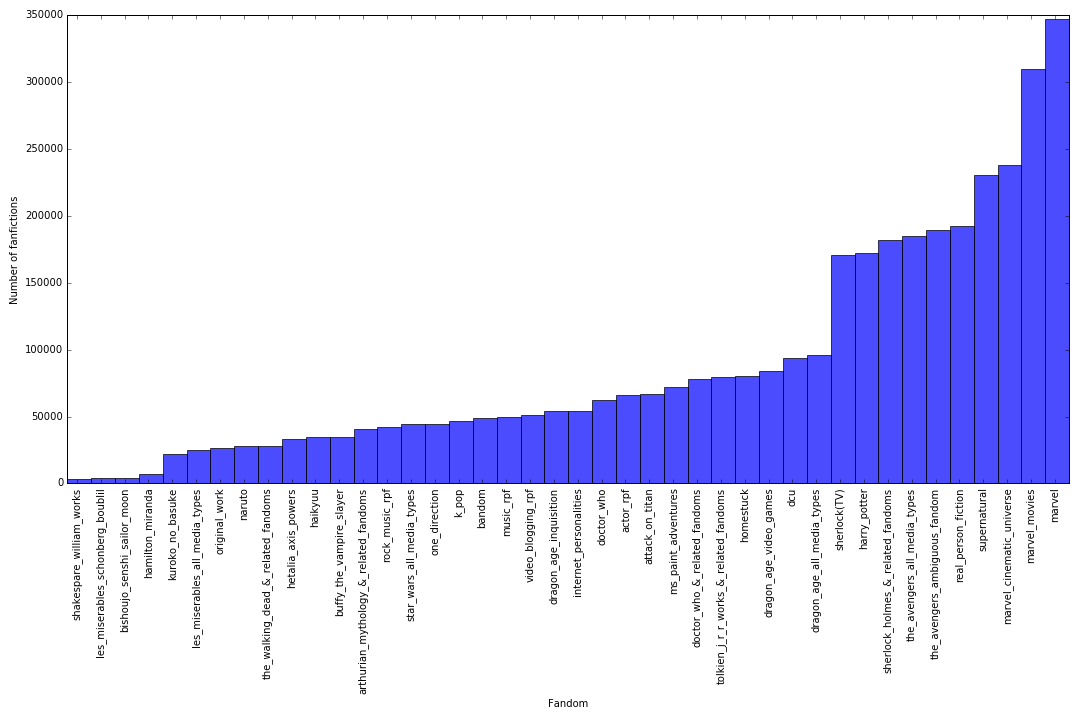
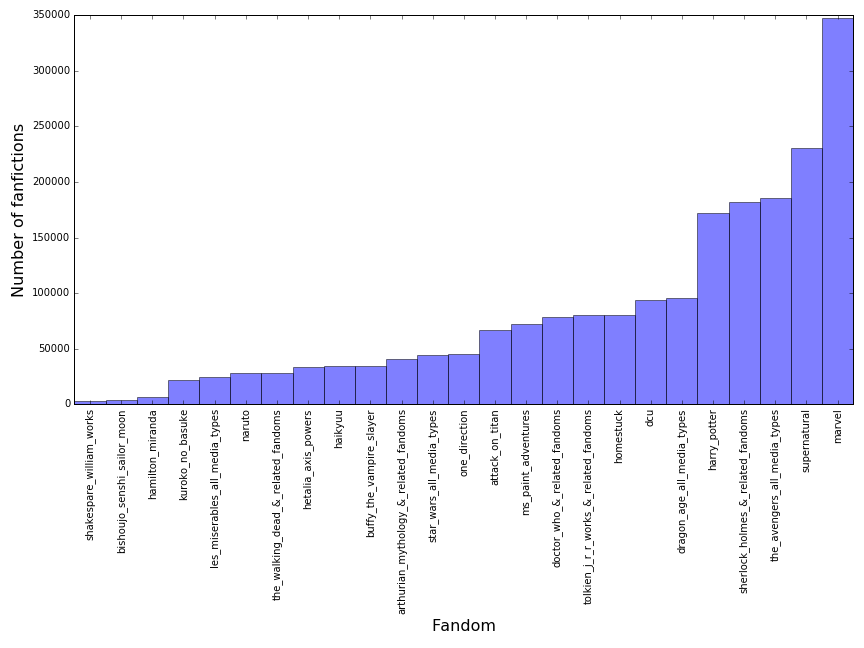
update document until fig1

diff --git a/paper/current/main.tex b/paper/current/main.tex
@@ -22,20 +22,20 @@
 
 \begin{document} %{{{
 
-\title{Evolution of Fanfictions in Fandoms} %{{{
+\title{Creativity and Popularity of Fanfictions in Fandoms} %{{{
 \date{\today}
 \maketitle %}}}
 
 \section{Introduction} %{{{
 \label{sec:introduction}
-\paragraph{} Many creative cultural products in human history are centered around a common topic and developed into different versions through time and interaction between creators. Myths and folktales in oral traditions of civilizations around the world often follow this pattern, for example, the tale of the Little Red Riding Hood or Mahabharata. 
+Many creative cultural products in human history are centered around a common topic and developed into different versions through time and interaction between creators. Myths and folktales in oral traditions of civilizations around the world often follow this pattern, for example, the tale of the Little Red Riding Hood or Mahabharata. 
 
-In the contemporary pop culture, this tradition is sometimes found in a new form --- fanfictions. 
+In the contemporary pop culture, this tradition is sometimes found in a new form --- fan works. Sometimes defined more formally as transformative works, they are creative works made by fans based on one or more original works, and are often centered around certain characters or story lines\cite{wiki:transf_work}. For example, a story written by a contemporary fan about Sherlock Holmes in his retirement is considered a fan work. Although fan works contain multiple media types such as art, music and games, one of the most common type is creative writing---fanfictions. People interested in such activities often 
+connect and interact with each other, forming communities known as fandoms\cite{wiki:fandom}.
 
-\paragraph{}Transformative works, or in a more common term, fan works, are one typical kind of production from fandoms\cite{wiki:transf_work}. These are creative works made by fans based on one or more original works, and are often centered around certain characters or story lines. For example, a story written by a contemporary fan about Sherlock Holmes in his retirement is considered a fan fiction in the Sherlock Holmes fandom. Although fan works contain multiple media types such as art, music and games, one of the most common type is creative writing--fanfictions.
+Similar to other creative works, fanfictions are constantly under selection and evaluation of their readers. The most successful fanfictions may be published and even adapted into other media forms (for example, \emph{Fifty Shades of Grey} was originally a fanfiction of \emph{Twilight}). Meanwhile, most fictions remain fairly unpopular.
 
-\paragraph{} This project studies the evolution of fanfictions in fandoms. Data for the study comes from Archive of Our Own (AO3). This site hosts fan works --- mainly fanfictions --- that users upload and their metadata, and categorizes them based on fandoms. Established in 2010, it has become one of the most popular transformative work archives. We collected fanfictions from 42 fandoms according to AO3's list of most popular fandoms as of March 2016 \footnote{from this list: \url{http://archiveofourown.org/media}}. \ej{The page lists 50 fandoms, 5 for each category; there are some overlappings, after removing which 42 are left. Still some of these can have heavy overlappings (eg. ``Marvel" and ``Marvel movies". I might remove these as well.}
-We only kept the fictions written in English, which leaves us with 3,726,307 fictions. The number of fictions in each fandom is shown in Figure \ref{fig:fandom_size}.
+This project tries to study what makes fanfictions popular in fandoms. Data for the study comes from Archive of Our Own (AO3). This site hosts fan works --- mainly fanfictions --- that users upload and their metadata, and categorizes them based on fandoms. Established in 2010, it has become one of the most popular transformative work archives. We collected fanfictions from 50 fandoms according to AO3's list of most popular fandoms as of March 2016 \footnote{from this list: \url{http://archiveofourown.org/media}}. To avoid duplication, we remove fandoms with heavy overlapping (e.g.: we keep \emph{Marvel} and removed \emph{Marvel movies}. Fandoms that cover diverse topics (e.g.\emph{k-pop} are also removed. Finally, we only kept the fictions written in English. This leaves us with  fictions from 25 fandoms. The number of fictions in each fandom is shown in Figure \ref{fig:fandom_size}.
 
 \begin{figure}[htbp]
 \begin{center}
